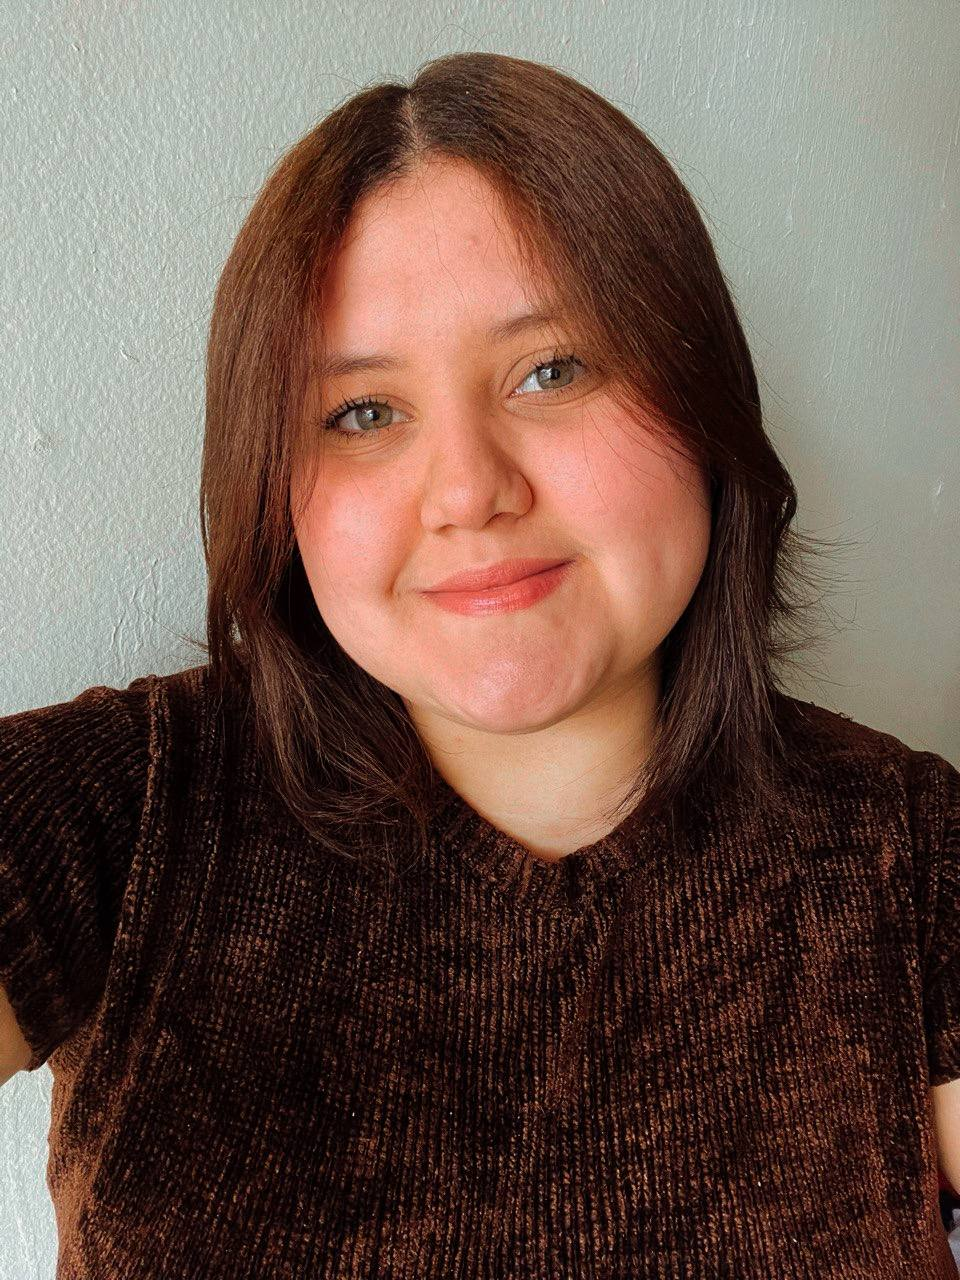
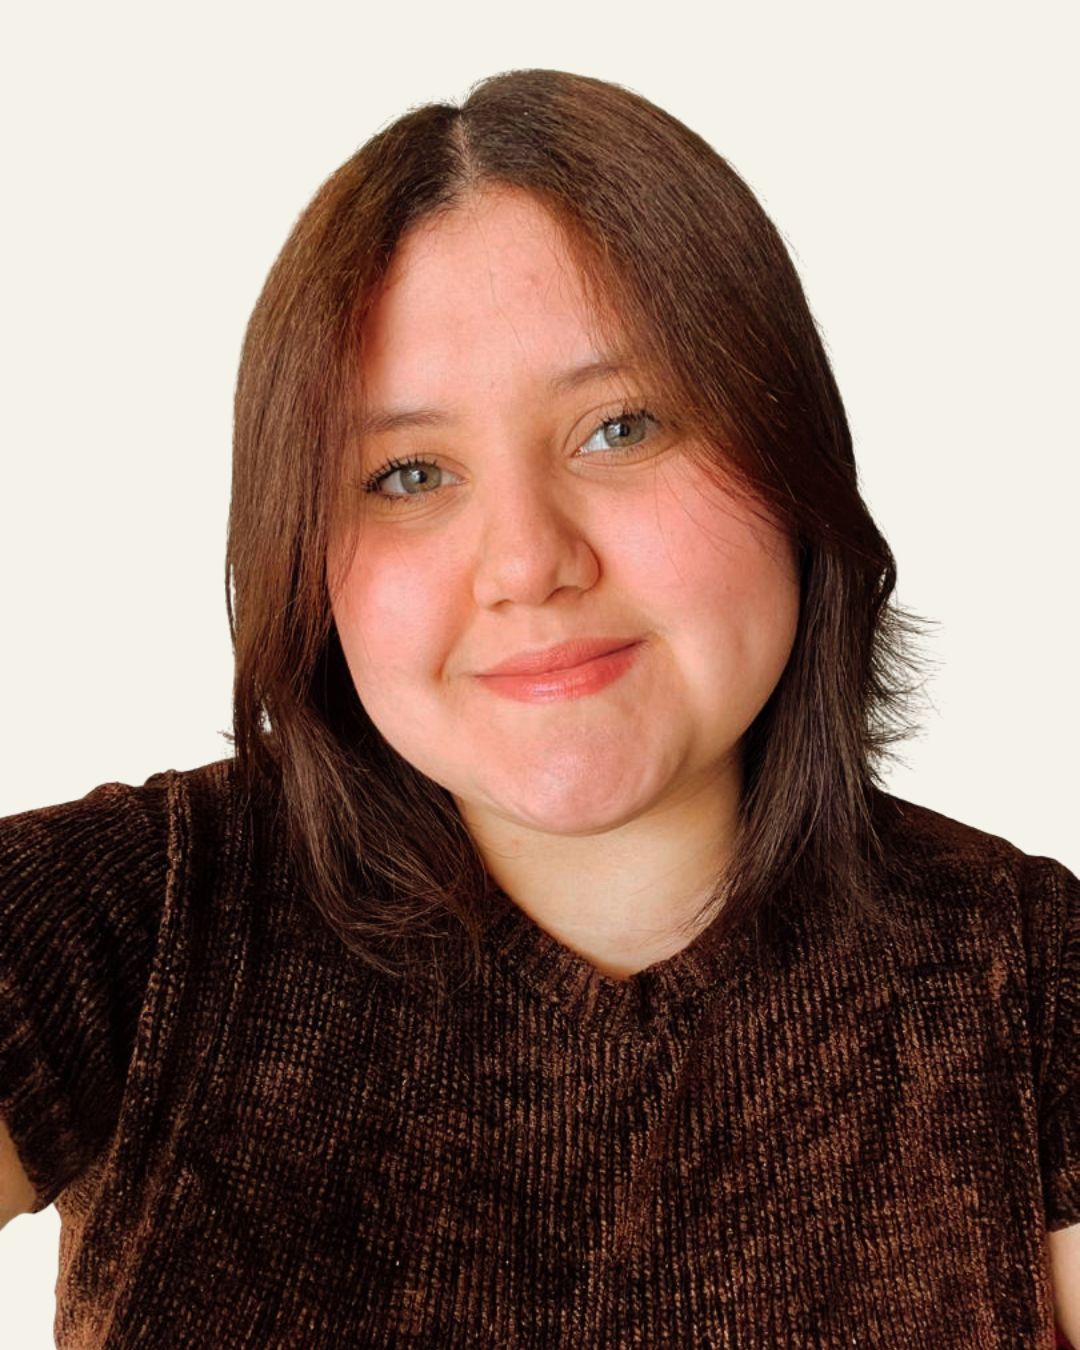
feat: Enhance components with new properties and update styles for better customization

diff --git a/app/_lib/ministries.ts b/app/_lib/ministries.ts
@@ -50,6 +50,7 @@ export interface MinistryPillar {
   title: string;
   tagline?: string;
   description: string;
+  color?: string;
 }
 
 export interface MinistrySection {
@@ -85,6 +86,7 @@ export interface Ministry {
   stats?: MinistryStat[];
   reel?: string[];
   reelColors?: string[];
+  reelBg?: string;
   quote?: string;
   verse?: MinistryVerse;
   team?: MinistryTeamMember[];
@@ -364,6 +366,134 @@ const DETAILS: Record<string, Partial<Ministry>> = {
       reference: 'Marcos 10:14',
     },
   },
+  femenil: {
+    cover: '/images/ministries/mujer-intercesora-image.jpg',
+    tagline: 'Mujeres que brillan con la luz de Dios',
+    description: [
+      'El Ministerio Femenil es un espacio creado especialmente para las mujeres de la iglesia: un lugar donde pueden encontrarse, crecer en la fe, sanar y descubrir el llamado que Dios tiene para cada una de ellas.',
+      'Organizamos encuentros, retiros, estudios bíblicos y momentos de comunión donde el amor de Dios se manifiesta de manera especial en el corazón de cada mujer. Creemos que ninguna mujer debe enfrentar sus batallas sola.',
+    ],
+    pillars: [
+      {
+        id: 'mision',
+        title: 'Misión',
+        tagline: 'Por qué existimos',
+        description: 'Fortalecer la fe, el carácter y la identidad de las mujeres de la iglesia a través de la Palabra de Dios, la oración y la comunión, para que cada una viva plenamente el propósito que Dios tiene para su vida.',
+        color: '#F2619C',
+      },
+      {
+        id: 'vision',
+        title: 'Visión',
+        tagline: 'Hacia dónde vamos',
+        description: 'Ser un ministerio que forme mujeres íntegras, llenas del Espíritu Santo, capaces de transformar su familia, su comunidad y su generación con el amor y la verdad de Dios. Soñamos con mujeres que iluminen cada espacio donde estén.',
+        color: '#D6BEEA',
+      },
+      {
+        id: 'alcance',
+        title: 'Alcance',
+        tagline: 'A quién llegamos',
+        description: 'Llegar a cada mujer de la iglesia y extender la invitación a mujeres de la comunidad, para que ninguna enfrente sus batallas sola. Juntas somos más fuertes, y cada mujer que llega transforma el ambiente a su alrededor.',
+        color: '#93ABD9',
+      },
+      {
+        id: 'proposito',
+        title: 'Propósito',
+        tagline: 'El corazón de todo',
+        description: 'Crear un ambiente de amor, confianza y crecimiento donde las mujeres puedan ser auténticas, sanar sus heridas, desarrollar sus dones y apoyarse mutuamente como verdaderas hermanas en la fe.',
+        color: '#F98BA9',
+      },
+      {
+        id: 'funciones',
+        title: 'Funciones',
+        tagline: 'Lo que hacemos',
+        description: 'Organizar encuentros, retiros espirituales, estudios bíblicos, actividades de comunión y espacios de consejería diseñados para que cada mujer crezca, sane y desarrolle todo el potencial que Dios puso en ella.',
+        color: '#F4D77A',
+      },
+    ],
+    stats: [
+      { value: 60,  suffix: '+', label: 'Mujeres conectadas' },
+      { value: 12,  suffix: '+', label: 'Eventos realizados' },
+      { value: 4,   suffix: '+', label: 'Años de ministerio' },
+      { value: 3,   suffix: '+', label: 'Retiros espirituales' },
+    ],
+    features: [
+      {
+        title: 'Encuentros y retiros',
+        description: 'Espacios de reflexión, oración y adoración exclusivos para mujeres, donde el Espíritu Santo trabaja profundamente en cada corazón.',
+        icon: 'sparkles',
+        color: '#F2619C',
+      },
+      {
+        title: 'Estudio bíblico',
+        description: 'Profundizamos juntas en la Palabra de Dios para crecer en sabiduría y aplicar su verdad a cada área de la vida cotidiana.',
+        icon: 'book',
+        color: '#93ABD9',
+      },
+      {
+        title: 'Actividades de comunión',
+        description: 'Momentos de compañerismo, dinámicas y celebraciones que fortalecen los lazos entre las hermanas y construyen amistad genuina.',
+        icon: 'team',
+        color: '#F4D77A',
+      },
+      {
+        title: 'Apoyo y consejería',
+        description: 'Un espacio seguro donde las mujeres pueden hablar, ser escuchadas y recibir orientación y amor basado en la Palabra de Dios.',
+        icon: 'heart',
+        color: '#D6BEEA',
+      },
+      {
+        title: 'Formación de líderes',
+        description: 'Identificamos y desarrollamos el potencial de liderazgo en cada mujer, preparándolas para servir con excelencia y propósito.',
+        icon: 'broadcast',
+        color: '#F98BA9',
+      },
+      {
+        title: 'Conexión familiar',
+        description: 'Actividades que fortalecen el rol de la mujer como pilar del hogar, inspirando a cada mamá, hija y hermana a brillar.',
+        icon: 'social',
+        color: '#B7C96A',
+      },
+    ],
+    gallery: [
+      { src: '/images/people/marina-image.jpg',                    alt: 'Momento femenil en la iglesia' },
+      { src: '/images/people/yeniret-image.jpg',                   alt: 'Hermana en tiempo de adoración' },
+      { src: '/images/people/maylit-image.jpg',                    alt: 'Reunión del ministerio femenil' },
+      { src: '/images/people/ochi-image.jpg',                      alt: 'Tiempo de oración femenil' },
+      { src: '/images/people/maria-image.jpg',                     alt: 'Actividad especial de mujeres' },
+      { src: '/images/ministries/mujer-intercesora-image.jpg',     alt: 'Mujer en intercesión' },
+      { src: '/images/ministries/conexion-image.jpg',              alt: 'Encuentro femenil especial' },
+      { src: '/images/ministries/recreacion-image.jpg',            alt: 'Actividad de comunión femenil' },
+    ],
+    team: [
+      { name: 'María Elena Suárez', role: 'Directora Principal',      isLeader: true, photo: '/images/people/marina-image.jpg',   color: '#F2619C' },
+      { name: 'Gloria Mendoza',     role: 'Coordinadora de Eventos',                  photo: '/images/people/yeniret-image.jpg',  color: '#D6BEEA' },
+      { name: 'Carmen Rosa Díaz',   role: 'Estudio Bíblico',                          photo: '/images/people/maylit-image.jpg',   color: '#F4D77A' },
+      { name: 'Daniela Flores',     role: 'Apoyo y Consejería',                       photo: '/images/people/ochi-image.jpg',     color: '#93ABD9' },
+      { name: 'Patricia Mora',      role: 'Comunicación y Diseño',                    photo: '/images/people/maria-image.jpg',    color: '#F98BA9' },
+      { name: 'Valentina Cruz',     role: 'Conexión Juvenil Femenil',                 photo: '/images/people/worship-image.jpg',  color: '#B7C96A' },
+    ],
+    reel: [
+      '/images/people/marina-image.jpg',
+      '/images/people/yeniret-image.jpg',
+      '/images/people/maylit-image.jpg',
+      '/images/people/ochi-image.jpg',
+      '/images/people/maria-image.jpg',
+      '/images/ministries/mujer-intercesora-image.jpg',
+      '/images/ministries/conexion-image.jpg',
+      '/images/ministries/recreacion-image.jpg',
+      '/images/people/worship-image.jpg',
+      '/images/people/pastor2-image.jpg',
+      '/images/people/franklin-image.jpg',
+      '/images/people/roberto-image.jpg',
+    ],
+    reelColors: ['#F2619C', '#E7BEF8', '#F98BA9', '#D6BEEA', '#F4D77A', '#B7C96A', '#93ABD9', '#FF8F45'],
+    reelBg: 'linear-gradient(135deg, #7B1548 0%, #C04B80 60%, #E9628F 100%)',
+    quote: 'No somos las mismas después de haber estado en la presencia de Dios juntas.',
+    verse: {
+      text: 'Engañosa es la gracia, y vana la hermosura; la mujer que teme a Jehová, ésa será alabada.',
+      reference: 'Proverbios 31:30',
+    },
+  },
   multimedia: {
     cover: '/images/people/worship-image.jpg',
     tagline: 'Tecnología al servicio del Reino',
@@ -445,16 +575,16 @@ const DETAILS: Record<string, Partial<Ministry>> = {
       '/images/people/maria-image.jpg',
     ],
     team: [
-      { name: 'Daniel González',   role: 'Líder Principal · Fotografía',          isLeader: true, photo: '/images/people/pastor1-image.jpg',  color: '#93C5FD' },
-      { name: 'Yeglimar Montañez', role: 'Líder Secundaria · Diseño y Redes',   isLeader: true, photo: '/images/ministries/multimedia/yeglimar-multimedia.jpg', color: '#FDA4AF' },
-      { name: 'Alejandro Montiel', role: 'Fotografía y Diseño',                                  photo: '/images/people/pedro-image.jpg',    color: '#FDE68A' },
-      { name: 'Fabiola Sayago',    role: 'Diseño y Redes Sociales',                              photo: '/images/people/yeniret-image.jpg',  color: '#C4B5FD' },
-      { name: 'Kendriana Oviedo',  role: 'Diseño y Redes Sociales',                              photo: '/images/people/maylit-image.jpg',   color: '#86EFAC' },
-      { name: 'Lohisbell Díaz',    role: 'Proyección y Transmisión',                             photo: '/images/people/maria-image.jpg',    color: '#FCA5A1' },
-      { name: 'Leonel Fabelo',     role: 'Proyección y Transmisión',                             photo: '/images/people/bladimir-image.jpg', color: '#7DD3FC' },
-      { name: 'Sebastián García',  role: 'Proyección y Transmisión',                             photo: '/images/people/roberto-image.jpg',  color: '#F9A8D4' },
-      { name: 'Jesús Perozo',      role: 'Proyección y Transmisión',                             photo: '/images/people/franklin-image.jpg', color: '#A7F3D0' },
-      { name: 'Daniel Montiel',    role: 'Proyección y Transmisión',                             photo: '/images/people/joseMarin-image.jpg',color: '#FCD34D' },
+      { name: 'Daniel González',   role: 'Líder Principal · Fotografía',        isLeader: true, photo: '/images/ministries/multimedia/integrantes/you-multimedia.jpg',   color: '#93C5FD' },
+      { name: 'Yeglimar Montanez', role: 'Líder Secundaria · Diseño y Redes Sociales', isLeader: true, photo: '/images/ministries/multimedia/integrantes/yeglimar-multimedia.jpg',               color: '#FDA4AF' },
+      { name: 'Alejandro Montiel', role: 'Fotografía y Diseño',                                                                                                               color: '#FDE68A' },
+      { name: 'Fabiola Sayago',    role: 'Diseño y Redes Sociales',                             photo: '/images/ministries/multimedia/integrantes/fabiola-multimedia.jpg',   color: '#C4B5FD' },
+      { name: 'Kendriana Oviedo',  role: 'Diseño y Redes Sociales',                                                                                                           color: '#86EFAC' },
+      { name: 'Lohisbell Díaz',    role: 'Proyección y Transmisión',                            photo: '/images/ministries/multimedia/integrantes/lohisbell-multimedia.jpg', color: '#FCA5A1' },
+      { name: 'Leonel Fabelo',     role: 'Proyección y Transmisión',                            photo: '/images/ministries/multimedia/integrantes/leonel-multimedia.jpg',                                                                              color: '#7DD3FC' },
+      { name: 'Sebastián García',  role: 'Proyección y Transmisión',                            photo: '/images/ministries/multimedia/integrantes/sebastian-multimedia.jpg', color: '#F9A8D4' },
+      { name: 'Jesús Perozo',      role: 'Proyección y Transmisión',                            photo: '/images/ministries/multimedia/integrantes/jesus-multimedia.jpg',     color: '#A7F3D0' },
+      { name: 'Daniel Montiel',    role: 'Proyección y Transmisión',                                                                                                          color: '#FCD34D' },
     ],
     designs: [
       { src: '/images/ministries/multimedia/dise%C3%B1os/galeria1.jpg', category: 'Diseño', alt: 'Diseño del ministerio de Multimedia' },

diff --git a/app/_components/organisms/MissionPillars/MissionPillars.tsx b/app/_components/organisms/MissionPillars/MissionPillars.tsx
@@ -3,7 +3,7 @@ import { useState } from 'react';
 import ScrollReveal from '../../atoms/ScrollReveal/ScrollReveal';
 import type { MinistryPillar } from '../../../_lib/ministries';
 
-const eyebrow = 'text-xs font-bold uppercase tracking-[0.25em] text-[#060773]';
+const DEFAULT_COLOR = '#060773';
 
 const PILLAR_ICONS: Record<string, React.ReactNode> = {
   mision: (
@@ -34,9 +34,19 @@ const PILLAR_ICONS: Record<string, React.ReactNode> = {
   ),
 };
 
+function FallbackIcon() {
+  return (
+    <svg className="w-6 h-6" fill="none" viewBox="0 0 24 24" stroke="currentColor" strokeWidth={1.5} aria-hidden="true">
+      <path strokeLinecap="round" strokeLinejoin="round" d="M12 6v6m0 0v6m0-6h6m-6 0H6" />
+    </svg>
+  );
+}
+
 export default function MissionPillars({ pillars }: { pillars: MinistryPillar[] }) {
   const [active, setActive] = useState(0);
   const current = pillars[active];
+  const accent = current.color ?? DEFAULT_COLOR;
+  const hasCustomColors = pillars.some((p) => p.color);
 
   return (
     <section className="bg-white px-6 md:px-10 py-20 md:py-28 overflow-hidden">
@@ -45,49 +55,75 @@ export default function MissionPillars({ pillars }: { pillars: MinistryPillar[] 
         {/* Header */}
         <div className="text-center mb-14">
           <ScrollReveal direction="up">
-            <p className={eyebrow}>Nuestra identidad</p>
+            <p
+              className="text-xs font-bold uppercase tracking-[0.25em] mb-1.5 transition-colors duration-500"
+              style={{ color: accent }}
+            >
+              Nuestra identidad
+            </p>
             <h2 className="mt-3 text-3xl md:text-5xl font-bold tracking-tight text-[#1a1a1b]">
               Lo que nos define
             </h2>
           </ScrollReveal>
         </div>
 
-        {/* Tab grid — 2×2 on mobile, dynamic cols on md+ */}
+        {/* Tab grid */}
         <ScrollReveal direction="up" delay={100}>
           <div className={`grid gap-3 mb-10 grid-cols-2 ${pillars.length === 5 ? 'sm:grid-cols-3 md:grid-cols-5' : 'md:grid-cols-4'}`}>
-            {pillars.map((pillar, i) => (
-              <button
-                key={pillar.id}
-                onClick={() => setActive(i)}
-                className={`group flex flex-col items-center gap-2.5 rounded-2xl border p-5 text-center transition-all duration-300 cursor-pointer ${
-                  active === i
-                    ? 'bg-[#060773] border-[#060773] text-white shadow-lg shadow-[#060773]/20 scale-[1.02]'
-                    : 'bg-[#F8F8F8] border-gray-100 text-[#1a1a1b] hover:border-[#060773]/30 hover:bg-[#060773]/5 hover:-translate-y-0.5'
-                }`}
-              >
-                <span className={`transition-colors duration-300 ${active === i ? 'text-white' : 'text-[#060773]'}`}>
-                  {PILLAR_ICONS[pillar.id] ?? (
-                    <svg className="w-6 h-6" fill="none" viewBox="0 0 24 24" stroke="currentColor" strokeWidth={1.5} aria-hidden="true">
-                      <path strokeLinecap="round" strokeLinejoin="round" d="M12 6v6m0 0v6m0-6h6m-6 0H6" />
-                    </svg>
+            {pillars.map((pillar, i) => {
+              const color = pillar.color ?? DEFAULT_COLOR;
+              const isActive = active === i;
+              return (
+                <button
+                  key={pillar.id}
+                  onClick={() => setActive(i)}
+                  className={`group flex flex-col items-center gap-2.5 rounded-2xl border p-5 text-center transition-all duration-300 cursor-pointer ${
+                    isActive
+                      ? 'text-white scale-[1.03]'
+                      : 'bg-[#F8F8F8] border-gray-100 text-[#1a1a1b] hover:-translate-y-1'
+                  }`}
+                  style={isActive ? {
+                    backgroundColor: color,
+                    borderColor: color,
+                    boxShadow: `0 8px 28px ${color}45`,
+                  } : undefined}
+                >
+                  <span
+                    className="transition-colors duration-300"
+                    style={{ color: isActive ? '#ffffff' : color }}
+                  >
+                    {PILLAR_ICONS[pillar.id] ?? <FallbackIcon />}
+                  </span>
+                  <span className="font-bold text-sm tracking-tight leading-tight">
+                    {pillar.title}
+                  </span>
+                  {/* Dot indicator */}
+                  {hasCustomColors && !isActive && (
+                    <span
+                      className="w-1.5 h-1.5 rounded-full opacity-60"
+                      style={{ backgroundColor: color }}
+                    />
                   )}
-                </span>
-                <span className="font-bold text-sm tracking-tight leading-tight">
-                  {pillar.title}
-                </span>
-              </button>
-            ))}
+                </button>
+              );
+            })}
           </div>
         </ScrollReveal>
 
         {/* Content panel */}
         <ScrollReveal direction="up" delay={150}>
-          <div className="relative rounded-3xl bg-[#F8F9FF] border border-[#060773]/10 px-8 py-10 md:px-14 md:py-14 overflow-hidden min-h-[220px]">
-
+          <div
+            className="relative rounded-3xl px-8 py-10 md:px-14 md:py-14 overflow-hidden min-h-[220px] transition-colors duration-500"
+            style={{
+              backgroundColor: `${accent}0D`,
+              border: `1px solid ${accent}28`,
+            }}
+          >
             {/* Decorative background number */}
             <span
               aria-hidden="true"
-              className="absolute -bottom-4 -right-2 text-[10rem] font-black text-[#060773]/[0.045] leading-none select-none pointer-events-none"
+              className="absolute -bottom-4 -right-2 text-[10rem] font-black leading-none select-none pointer-events-none transition-colors duration-500"
+              style={{ color: `${accent}0D` }}
             >
               {`0${active + 1}`}
             </span>
@@ -95,12 +131,23 @@ export default function MissionPillars({ pillars }: { pillars: MinistryPillar[] 
             {/* Animated content — key forces remount → re-runs CSS animation */}
             <div key={active} className="animate-content-fade-up relative">
               <div className="flex items-start gap-5 mb-6">
-                <div className="flex-shrink-0 flex h-14 w-14 items-center justify-center rounded-2xl bg-[#060773] text-white shadow-md">
+                <div
+                  className="flex-shrink-0 flex h-14 w-14 items-center justify-center rounded-2xl text-white shadow-lg transition-all duration-500"
+                  style={{
+                    backgroundColor: accent,
+                    boxShadow: `0 6px 20px ${accent}45`,
+                  }}
+                >
                   {PILLAR_ICONS[current.id] ?? null}
                 </div>
                 <div>
                   {current.tagline && (
-                    <p className={`${eyebrow} mb-1`}>{current.tagline}</p>
+                    <p
+                      className="text-xs font-bold uppercase tracking-[0.25em] mb-1 transition-colors duration-500"
+                      style={{ color: accent }}
+                    >
+                      {current.tagline}
+                    </p>
                   )}
                   <h3 className="text-2xl md:text-3xl font-bold text-[#1a1a1b]">
                     {current.title}

diff --git a/app/_components/organisms/MediaReel/MediaReel.tsx b/app/_components/organisms/MediaReel/MediaReel.tsx
@@ -4,6 +4,7 @@ interface MediaReelProps {
   images: string[];
   label?: string;
   colors?: string[];
+  bg?: string;
 }
 
 function ReelRow({ imgs, direction, colors }: { imgs: string[]; direction: 'ltr' | 'rtl'; colors?: string[] }) {
@@ -37,13 +38,13 @@ function ReelRow({ imgs, direction, colors }: { imgs: string[]; direction: 'ltr'
   );
 }
 
-export default function MediaReel({ images, label, colors }: MediaReelProps) {
+export default function MediaReel({ images, label, colors, bg }: MediaReelProps) {
   const half = Math.ceil(images.length / 2);
   const row1 = images.slice(0, half);
   const row2 = images.slice(half);
 
   return (
-    <section className="bg-[#060773] py-16 overflow-hidden">
+    <section className="py-16 overflow-hidden" style={{ background: bg ?? '#060773' }}>
       {label && (
         <p className="text-center text-xs font-bold uppercase tracking-[0.3em] text-white/35 mb-10">
           {label}

diff --git a/app/_components/organisms/MinistryDetail/MinistryDetail.tsx b/app/_components/organisms/MinistryDetail/MinistryDetail.tsx
@@ -290,7 +290,7 @@ export default function MinistryDetail({ ministry }: { ministry: Ministry }) {
 
       {/* ── Media Reel — franja de fotos ── */}
       {ministry.reel?.length ? (
-        <MediaReel images={ministry.reel} label="Momentos capturados" colors={ministry.reelColors} />
+        <MediaReel images={ministry.reel} label="Momentos capturados" colors={ministry.reelColors} bg={ministry.reelBg} />
       ) : null}
 
       {/* ── Galería con lightbox ── */}

diff --git a/app/_components/atoms/Logo/Logo.tsx b/app/_components/atoms/Logo/Logo.tsx
@@ -12,6 +12,7 @@ export default function Logo({ className = '' }: LogoProps) {
           src="/images/logos/logo-antorcha-no-info.png"
           alt="Iglesia Evangélica Antorcha de Cristo"
           fill
+          sizes="56px"
           className="object-contain"
           priority
         />

diff --git a/next.config.ts b/next.config.ts
@@ -1,6 +1,9 @@
 import type { NextConfig } from "next";
 
 const nextConfig: NextConfig = {
+  images: {
+    qualities: [75, 90],
+  },
   async redirects() {
     return [
       { source: "/history", destination: "/historia", permanent: true },
